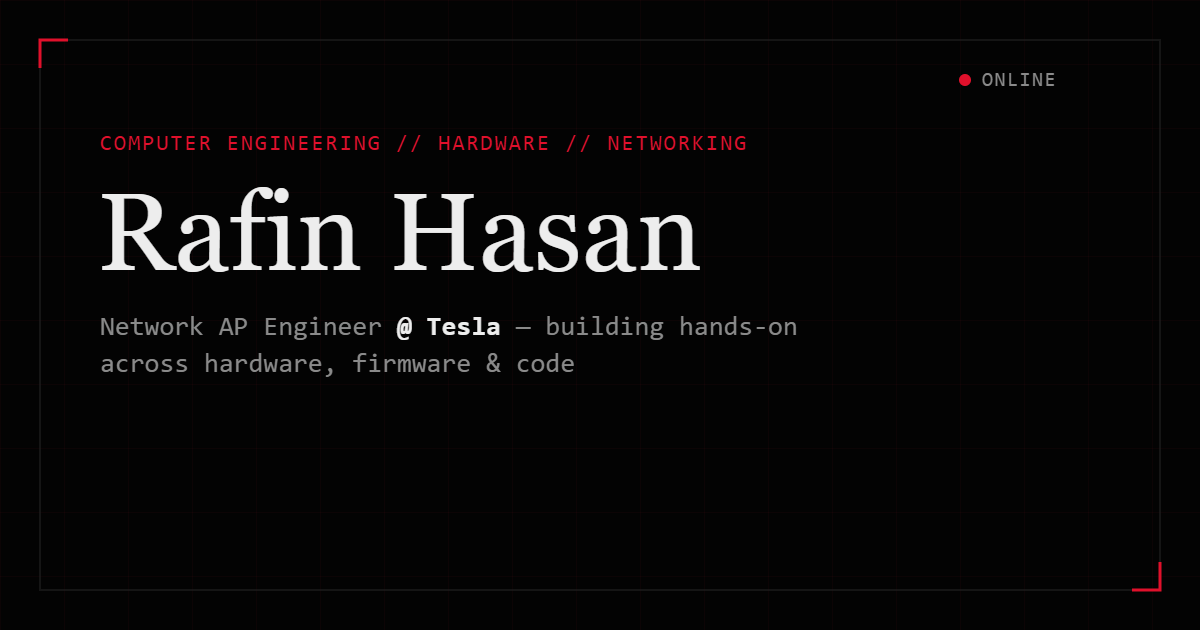
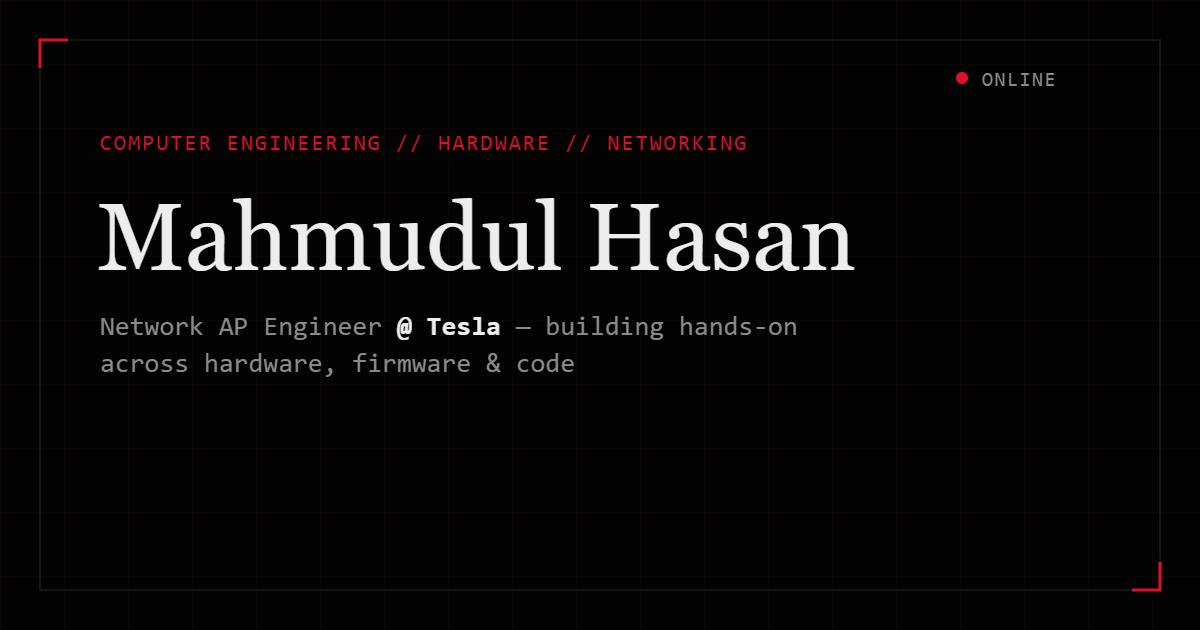
Rename displayed name to Mahmudul Hasan to match LinkedIn
Updates title, meta/OG/Twitter tags, nav brand, hero heading, footer,
console easter egg, README, and regenerates the OG share image so the
portfolio matches the name used on LinkedIn instead of the nickname.

Changed region(s): [[0.0617, 0.3016, 0.7092, 0.4524]]

diff --git a/index.html b/index.html
@@ -3,16 +3,16 @@
 <head>
 <meta charset="UTF-8">
 <meta name="viewport" content="width=device-width, initial-scale=1.0">
-<title>Rafin Hasan — Computer Engineering &amp; Hardware</title>
-<meta name="description" content="Portfolio of Rafin Hasan — Computer Engineering student, Network AP Engineer at Tesla, building across hardware, networking, and digital logic.">
+<title>Mahmudul Hasan — Computer Engineering &amp; Hardware</title>
+<meta name="description" content="Portfolio of Mahmudul Hasan — Computer Engineering student, Network AP Engineer at Tesla, building across hardware, networking, and digital logic.">
 
 <meta property="og:type" content="website">
-<meta property="og:title" content="Rafin Hasan — Computer Engineering &amp; Hardware">
+<meta property="og:title" content="Mahmudul Hasan — Computer Engineering &amp; Hardware">
 <meta property="og:description" content="Computer Engineering student, Network AP Engineer at Tesla, building across hardware, networking, and digital logic.">
 <meta property="og:url" content="https://raffytaffy627.github.io/portfolio-site/">
 <meta property="og:image" content="https://raffytaffy627.github.io/portfolio-site/og-image.png">
 <meta name="twitter:card" content="summary_large_image">
-<meta name="twitter:title" content="Rafin Hasan — Computer Engineering &amp; Hardware">
+<meta name="twitter:title" content="Mahmudul Hasan — Computer Engineering &amp; Hardware">
 <meta name="twitter:description" content="Computer Engineering student, Network AP Engineer at Tesla, building across hardware, networking, and digital logic.">
 <meta name="twitter:image" content="https://raffytaffy627.github.io/portfolio-site/og-image.png">
 
@@ -35,7 +35,7 @@
 <header class="nav">
   <div class="nav-inner">
     <div class="nav-left">
-      <a href="#top" class="nav-brand glitch">rafin_hasan<span class="cursor">_</span></a>
+      <a href="#top" class="nav-brand glitch">mahmudul_hasan<span class="cursor">_</span></a>
       <span class="status"><span class="status-dot"></span>online</span>
     </div>
     <nav class="nav-links">
@@ -51,7 +51,7 @@
 
   <section id="top" class="hero">
     <p class="eyebrow">computer engineering // hardware // networking</p>
-    <h1 class="glitch">Rafin Hasan</h1>
+    <h1 class="glitch">Mahmudul Hasan</h1>
     <p class="hero-lede">
       Computer Engineering student at ACC, working full time as a <strong>Network AP Engineer at Tesla</strong>.
       I build hands-on across hardware, firmware, networking, and code — not just software on a screen —
@@ -177,7 +177,7 @@
 </main>
 
 <footer class="footer">
-  <p>built by rafin hasan — plain html, css, js. no framework.</p>
+  <p>built by mahmudul hasan — plain html, css, js. no framework.</p>
 </footer>
 
 <script src="script.js"></script>

diff --git a/script.js b/script.js
@@ -26,6 +26,6 @@ if (!prefersReducedMotion && 'IntersectionObserver' in window && cards.length) {
 }
 
 console.log(
-  '%c> ACCESS GRANTED — welcome to rafin_hasan.sys',
+  '%c> ACCESS GRANTED — welcome to mahmudul_hasan.sys',
   'color:#e0102b;font-family:monospace;font-size:13px;'
 );

diff --git a/README.md b/README.md
@@ -1,6 +1,6 @@
 # portfolio-site
 
-Personal portfolio for Rafin Hasan — plain HTML/CSS/JS, no framework, no build step.
+Personal portfolio for Mahmudul Hasan — plain HTML/CSS/JS, no framework, no build step.
 
 ## Preview locally
 
